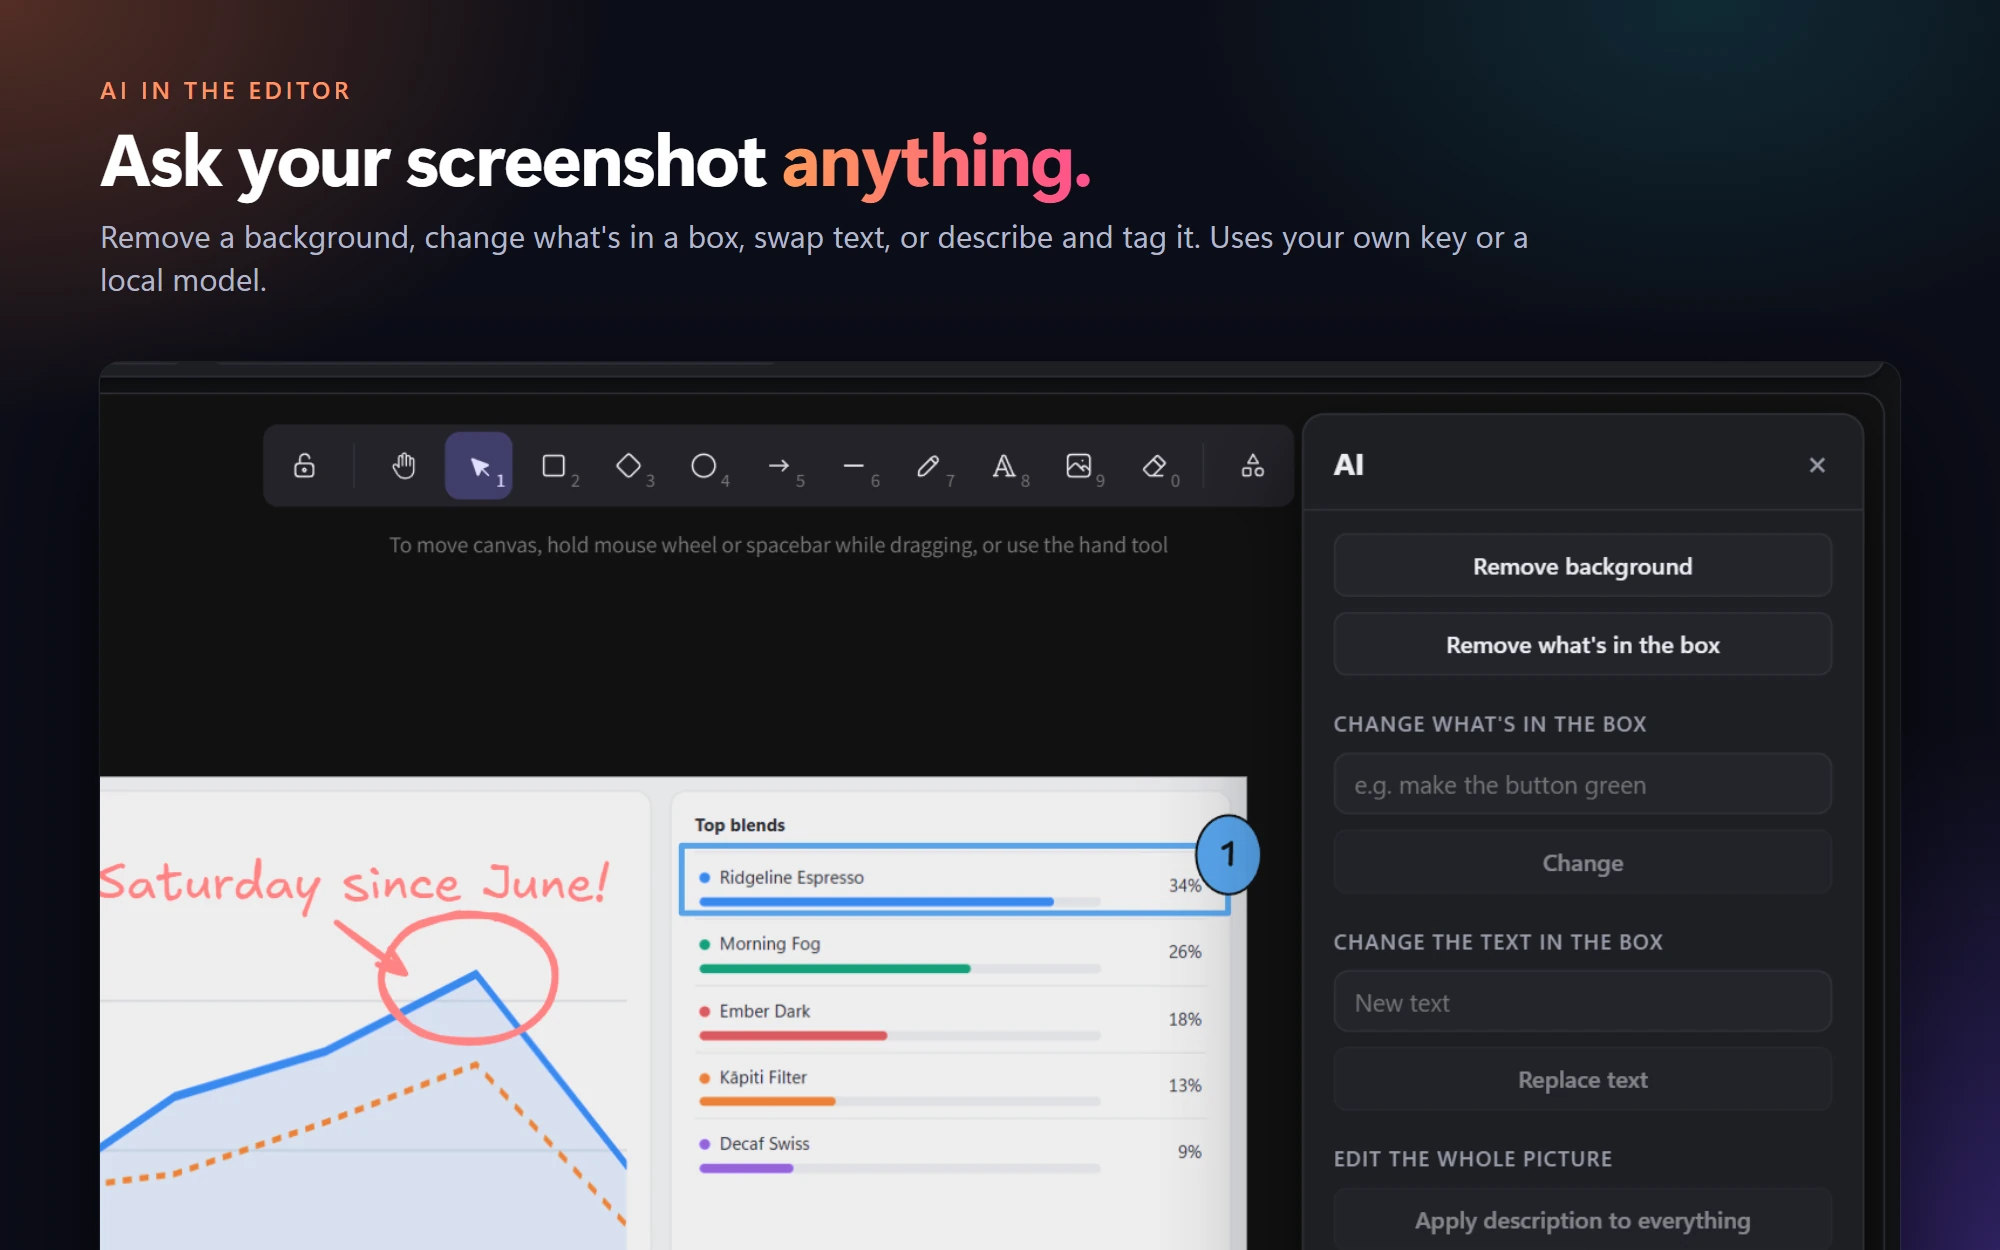
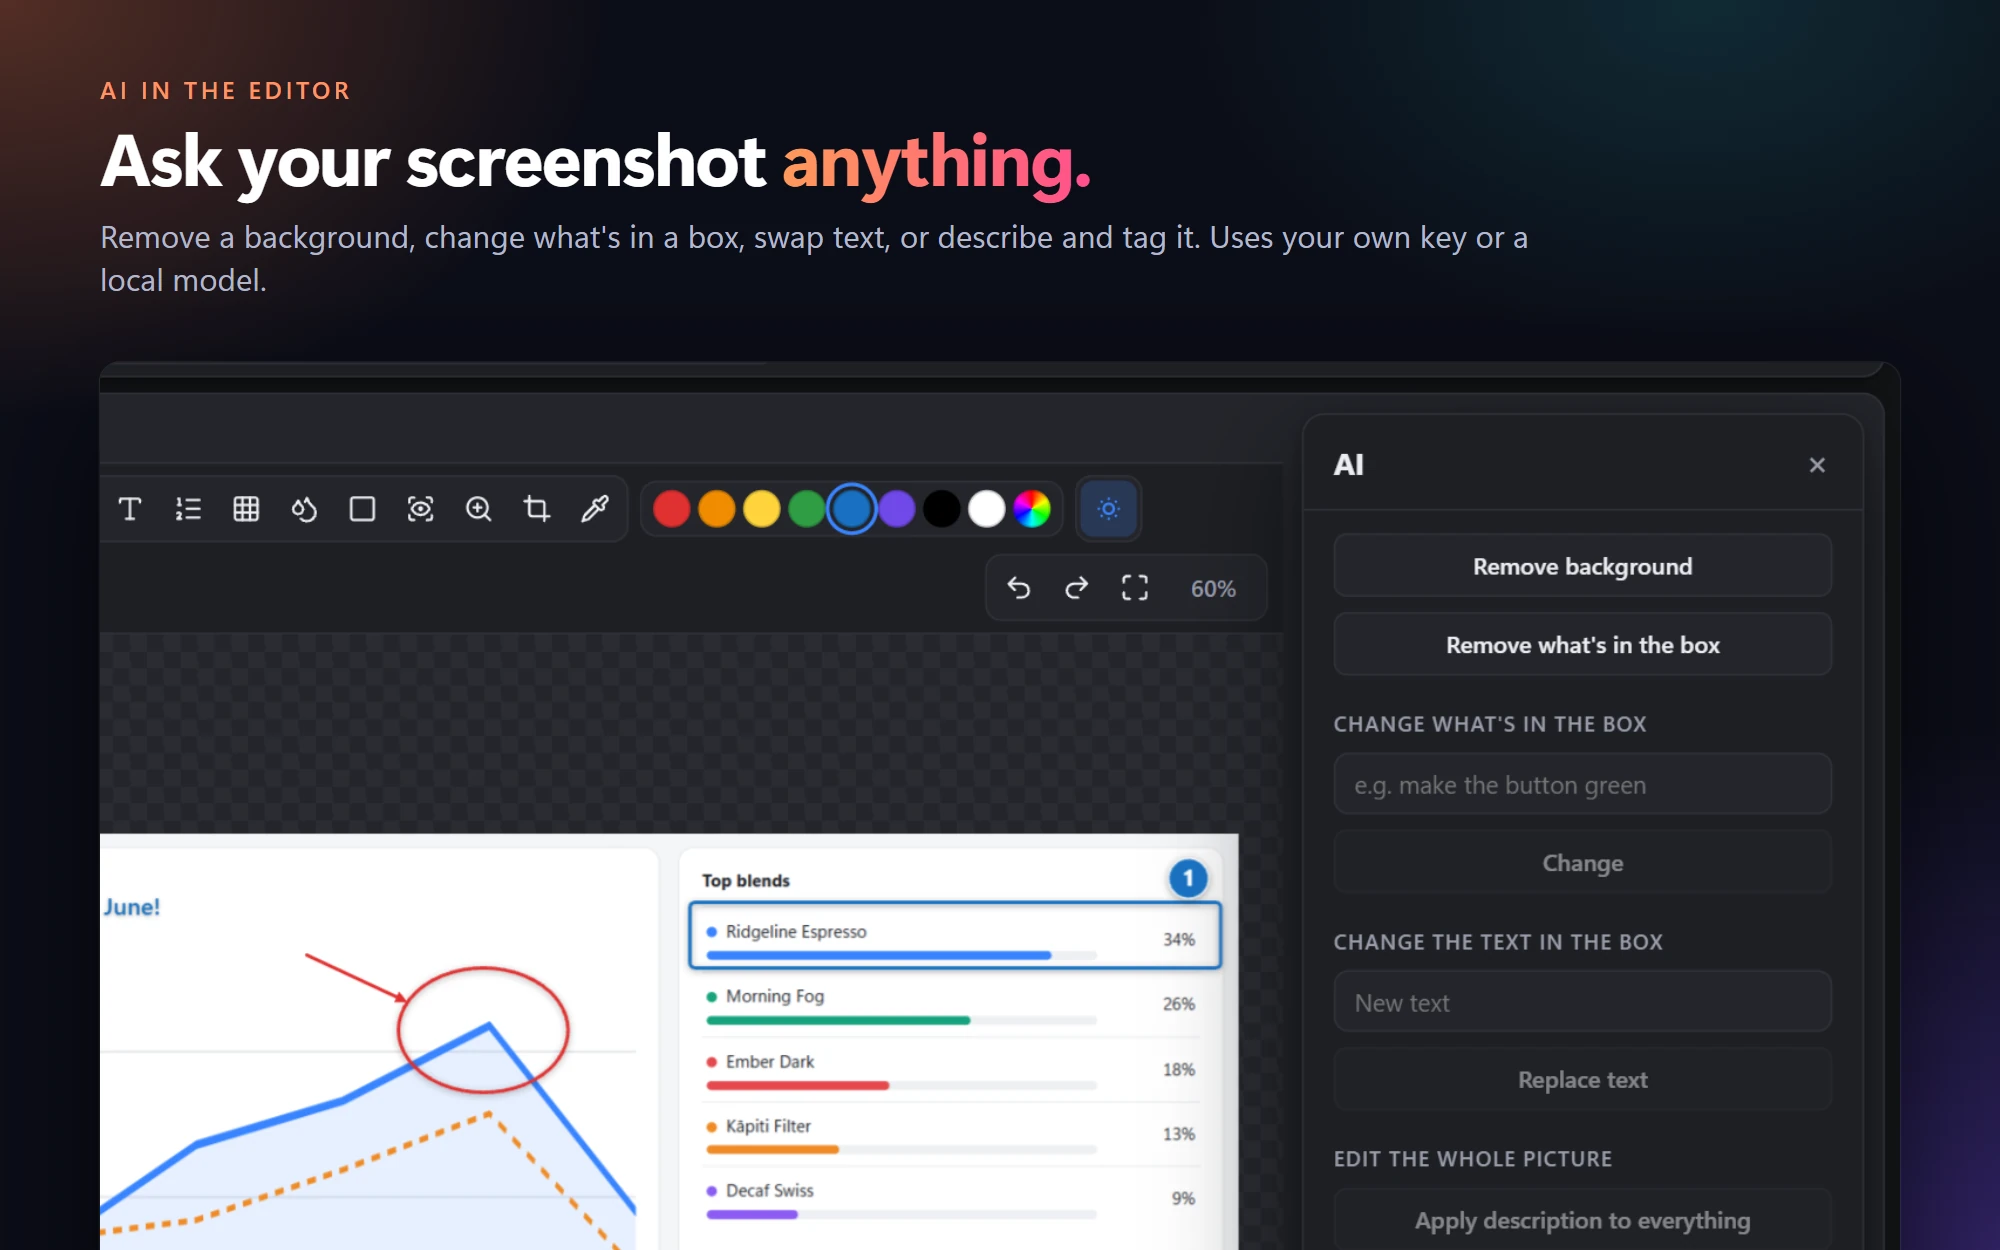
Reshoot the README editor pictures in the new editor
shoot.mjs now draws the editor shot in the markup editor with real mouse
and keys (ellipse, arrow, text, box, numbered step) instead of building an
Excalidraw scene, and the editor poster's copy describes the new editor.

The side panel (Beautify, Share, AI, Info) floated over the right of the
picture and the tools in the new editor. It now takes its own room, so the
picture refits beside it. markup-sweep still passes.

Changed region(s): [[0.031, 0.312, 0.651, 1.0]]

diff --git a/app/src/styles.css b/app/src/styles.css
@@ -114,6 +114,8 @@ button.icon-only:hover { color: var(--text); }
 /* ---------- new editor (markup) ---------- */
 .canvas.mk { display: flex; flex-direction: column; background: var(--panel-2); }
 .canvas.mk .doctabs { position: static; flex: none; }
+/* The side panel takes its own room here, so the picture and tools refit beside it instead of under it. */
+.canvas.mk:has(> .panel) { padding-right: 320px; }
 .mk-tools { flex: none; display: flex; flex-wrap: wrap; align-items: center; gap: 6px; padding: 6px 8px; border-bottom: 1px solid var(--line); background: var(--panel); }
 .mk-group { display: flex; align-items: center; gap: 1px; padding: 2px; border-radius: 9px; background: var(--panel-2); border: 1px solid var(--line); }
 .mk-group button { height: 30px; min-width: 30px; padding: 0 7px; justify-content: center; }

diff --git a/README.md b/README.md
@@ -70,7 +70,7 @@ Every capture lands on the clipboard as a picture **and** a named file (so chat 
 
 ### Mark it up
 
-<img src="docs/screenshots/editor.webp" alt="The picture editor: hand-drawn annotations, a numbered step, and the Beautify panel">
+<img src="docs/screenshots/editor.webp" alt="The picture editor: an arrow, a circled peak, a heading, a boxed row and a numbered step on a dashboard, with the Beautify panel open">
 
 Built for screenshots and fully offline: the capture is the canvas. Arrows, lines, boxes, ellipses, text, pen, highlighter, numbered **steps**, pixelate, blur, black out, spotlight, magnifier, crop, emoji and icons, tabs, and a strip of recent captures; every tool has a key ([docs/markup-editor.md](docs/markup-editor.md)). The classic [Excalidraw](https://github.com/excalidraw/excalidraw) whiteboard is in the layout menu, and `.excalidraw` projects open there.
 
